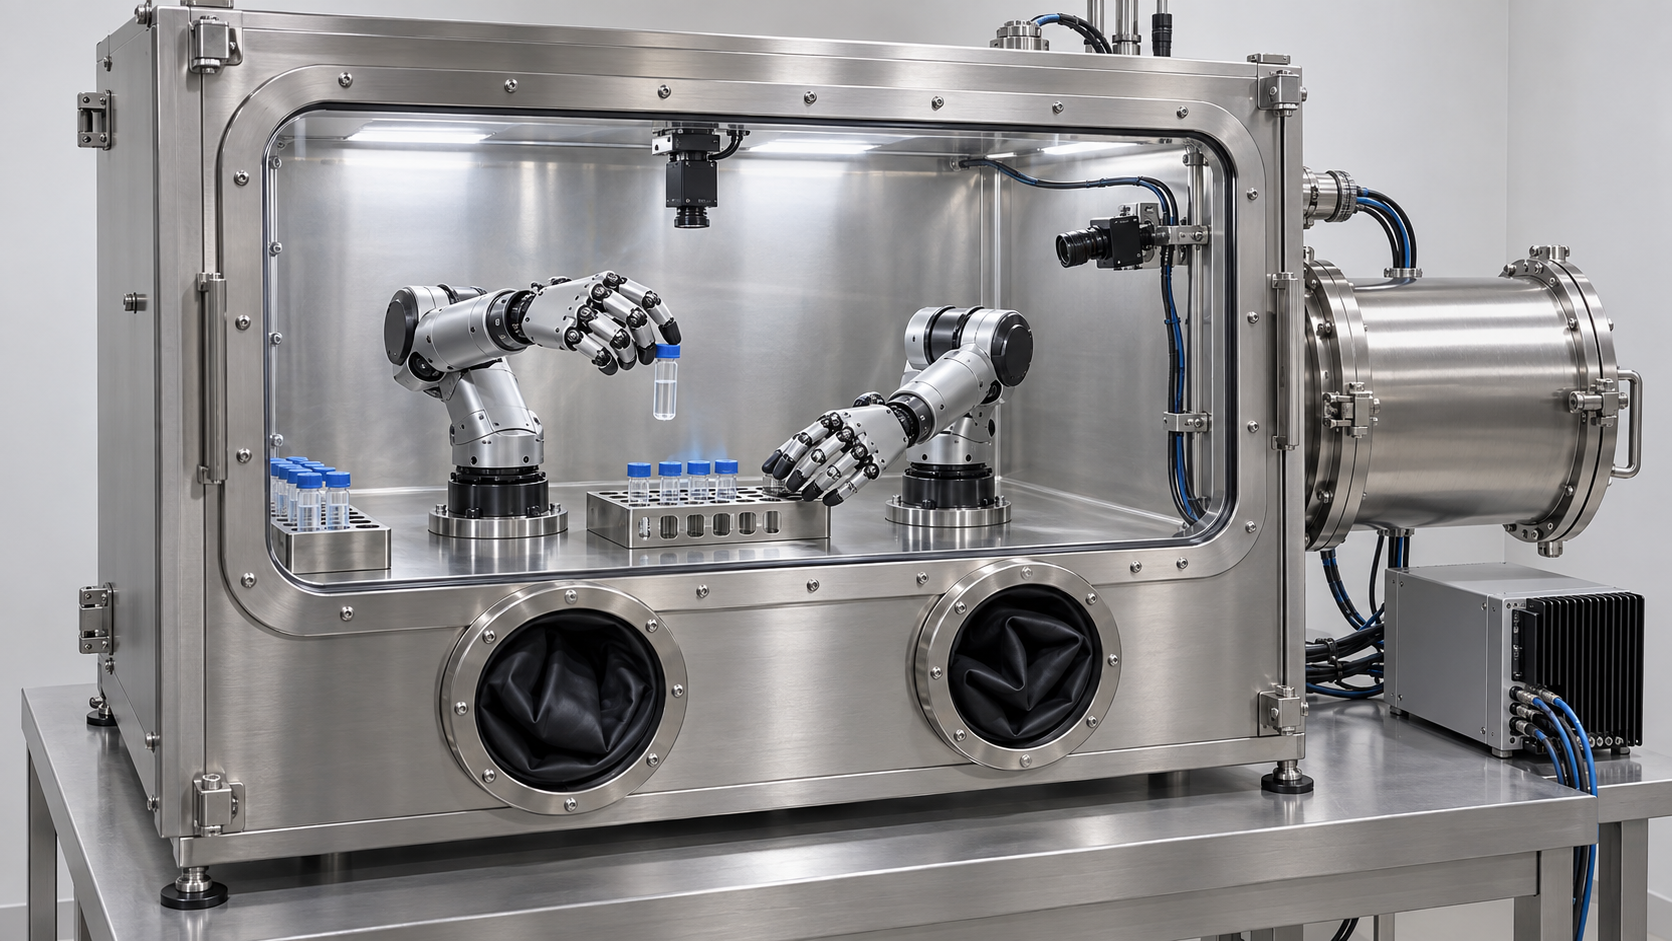
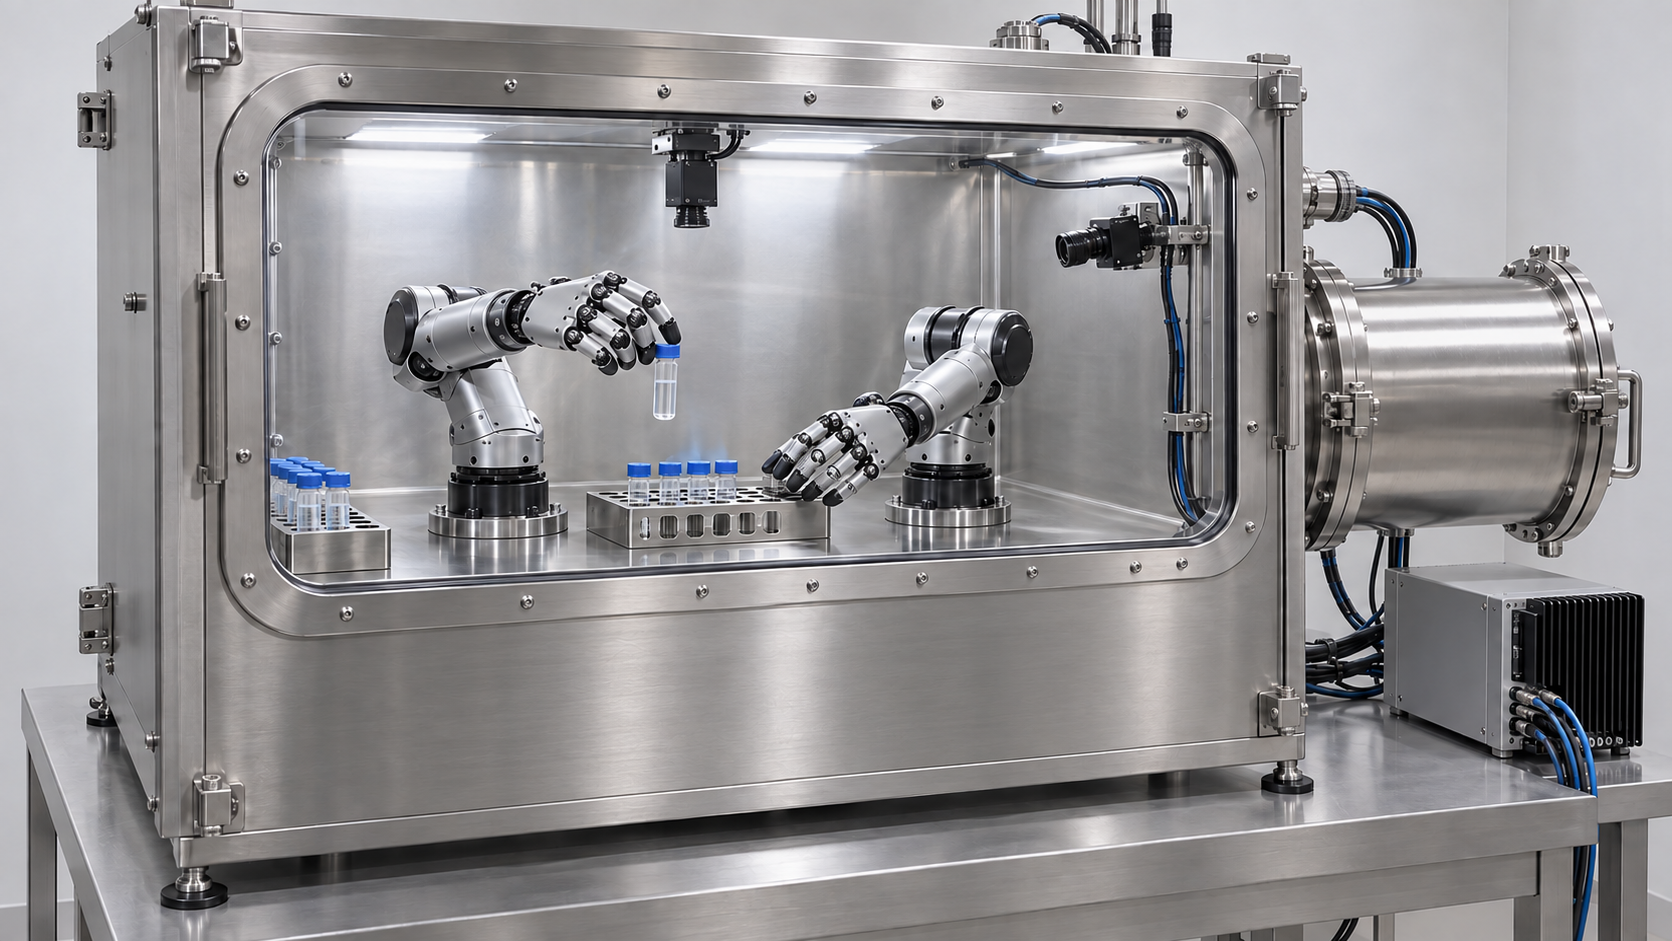
[verified] Fix PhenoLab renderings and production directory routes

diff --git a/src/ApplicationEvidence.tsx b/src/ApplicationEvidence.tsx
@@ -45,7 +45,7 @@ export function CaptureWorkbench({lang}:Props){
 export function PhenolabEvidence({lang}:Props){
  const t=text(lang);
  return <div className="application-evidence"><div className="evidence-heading"><span className="eyebrow">{t('The next capture layer','下一层采集能力')}</span><h4>{t('Learn from the hands doing the science.','从科研操作中学习。')}</h4><p>{t('A proposed path from human demonstration to reviewed data and dexterous robotic work.','从人工操作示范，到审核后的数据，再到灵巧机械手科研作业的拟议路径。')}</p></div>
- <div className="hardware-pair"><figure><img src={image('phenolab-glovebox-capture.png')} loading="lazy" alt={t('Glovebox with three wired cameras and an edge computer for recording human demonstrations','配有三台有线相机与边缘计算设备的手套箱')}/><figcaption><strong>01 / {t('Record the demonstration','记录操作示范')}</strong>{t('Wired camera views and a local capture computer.','多视角有线相机与本地采集计算机。')}</figcaption></figure><figure><img src={image('phenolab-robotic-hands.png')} loading="lazy" alt={t('Two dexterous robotic hands positioned around a sample inside an instrumented glovebox','配备相机的手套箱内，灵巧机械手与样品的位置')}/><figcaption><strong>02 / {t('Train for scientific manipulation','面向科研操作开展训练')}</strong>{t('Dexterous hands in a controlled workspace.','受控工作空间中的灵巧机械手。')}</figcaption></figure></div>
+ <div className="hardware-pair"><figure><img src={image('phenolab-glovebox-capture.png?v=geometry-3')} loading="lazy" alt={t('Glovebox with three wired cameras and an edge computer for recording human demonstrations','配有三台有线相机与边缘计算设备的手套箱')}/><figcaption><strong>01 / {t('Record the demonstration','记录操作示范')}</strong>{t('Wired camera views and a local capture computer.','多视角有线相机与本地采集计算机。')}</figcaption></figure><figure><img src={image('phenolab-robotic-hands.png?v=geometry-2')} loading="lazy" alt={t('Two dexterous robotic hands handling a sample inside a camera-equipped sealed robotic enclosure','配备相机的密闭机器人实验舱内，两只灵巧机械手正在操作样品')}/><figcaption><strong>02 / {t('Train for scientific manipulation','面向科研操作开展训练')}</strong>{t('Dexterous hands in a controlled workspace.','受控工作空间中的灵巧机械手。')}</figcaption></figure></div>
  <CaptureWorkbench lang={lang}/>
  <div className="evidence-chain">{[[t('Capture','采集'),t('Synchronized views of a demonstration','操作示范的同步多视角画面')],[t('Review','审核'),t('Link hands, objects and scientific context','关联手部、物体与科研上下文')],[t('Train & validate','训练与验证'),t('Add robot action data and supervised trials','补充机器人动作数据与受监督试验')]].map(([title,body],i)=><div key={title}><span>0{i+1}</span><h5>{title}</h5><p>{body}</p></div>)}</div>
  </div>;

diff --git a/design/glovebox-geometry-polish.md b/design/glovebox-geometry-polish.md
@@ -1,0 +1,38 @@
+# PhenoLab glovebox geometry polish
+
+## Scope
+
+Owner-requested correction to the two renderings in `PhenolabEvidence`, not a change to the camera-frame annotation image, scientific copy, neural animation or HTE workflow. These remain conceptual visuals, not installation photography or validated engineering drawings. The public captions are preserved; robot alternative text now describes a sealed robotic enclosure in English and Chinese.
+
+## Human demonstration rendering — full replacement
+
+- Owner rejected the intermediate geometry-2 image despite its earlier visual review: the opaque fascia interrupted the window and the combined inside/outside arm paths appeared too long. That review does not establish acceptance.
+- Generate an entirely new scene rather than editing the rejected composition. Stand the operator directly against the glovebox, with ordinary bent elbows and a short reach immediately behind the front pane.
+- Use one uninterrupted rectangular transparent front panel with both access collars in its lower region. No stepped window, tall opaque patch or split facade.
+- Make the near sleeve enter its collar naturally and continue to a proportionate black-gloved hand inside. The farther arm/collar is partly occluded by the operator, so exact continuity and equal physical diameter cannot be certified from this view.
+- Retain the camera-capture story, wiring, external computer, transfer airlock and sample handling; whole-scene framing and equipment layout are new.
+
+## Robotic enclosure rendering
+
+- Remove both human glove ports completely, including black rubber gloves, metallic circular rings and their local fasteners.
+- Reconstruct a continuous brushed-stainless fascia without circular plugs, ghost outlines or conspicuous patch seams.
+- Preserve the two internal robot arms/hands, sample rack, cameras, wiring, transfer airlock and external computer close to the source composition.
+- This supersedes the original robot prompt in `visual-prompts-v4.md` that explicitly asked for stowed human glove ports.
+
+## Reproducibility and integration
+
+- Native Codex generation; model identifier was not exposed. Current human: two fresh text-to-image candidates, selecting the second for its sleeve-to-port continuity and compact reach. Robot: the previously approved single edited candidate, unchanged.
+- Both final assets retain 1672×941 dimensions, and are byte-identical copies of the inspected generation outputs.
+- Original images and rejected intermediate edits are retained in `szkl-glovebox-polish`; the new human scene, brief and generation metadata are in the local `szkl-operator-rerender` review archive.
+- `design/asset-provenance.json` records final SHA-256 hashes.
+- Human URL uses `?v=geometry-3`; approved robot remains `?v=geometry-2` to prevent stale image reuse after deployment.
+
+## Verification
+
+- Inspected the whole newly rendered human scene for compact arm reach and continuous front glazing. This does not claim dimensional, sealing or engineering validation.
+- The intermediate human review is superseded by the owner's rejection. The approved robot image is retained byte-for-byte.
+- Browser regression first failed against the old image hash, then passed after replacement.
+- Eight page states: English/Chinese × 1440, 1024, 390 and 320px. Checked exact asset hashes, complete aspect ratio, localized alternative text, captions, language switching, horizontal overflow and JavaScript errors.
+- Existing 16-state capture annotation regression passed; the source frame and CSS box geometry were not changed.
+- `npm run build` and `git diff --check` passed.
+- Publication is separately gated on GitHub review/CI, actual-nginx candidate preflight and live verification; local build/image tests alone do not prove deployment.

diff --git a/deploy/README.md b/deploy/README.md
@@ -28,9 +28,9 @@ Before publishing, exercise English and Chinese on desktop/mobile, neural animat
 1. Read the active nginx configuration and compare it to the reviewed baseline before making changes.
 2. Back up the current marketing webroot and nginx config outside the public root. Preserve the old `/var/www/szkl-website` directory.
 3. Upload the clean artifact to a new directory `/var/www/szkl-releases/<commit>`. Verify every uploaded file against a SHA-256 manifest before activation.
-4. Point `/var/www/szkl-releases/current` to that immutable release. On the initial migration this does not affect the old live root.
-5. Install the reviewed site config, run `nginx -t`, and reload only after validation passes. If validation or reload fails, restore the saved config immediately.
-6. Verify the public HTML and assets against the uploaded hashes, HTTPS redirects, profile deep links, security headers, video range requests and real browser functionality. Keep old hashed assets available for clients holding the prior HTML.
+4. **Before activation**, test the candidate with a separate loopback-only nginx instance using the immutable candidate directory directly, not `current`. `/people/michael/`, `/people/ethan/`, `/people/louis/` and `/demos/rallo/` must return the intended directory index contents; nonexistent routes/assets must remain 404. Confirm directory listings are disabled (`autoindex off`). The general location needs `try_files $uri $uri/ =404`, not just `$uri`; a generic local file server does not reproduce nginx directory lookup.
+5. Save the previous symlink target, then atomically point `/var/www/szkl-releases/current` to the verified release. Install the reviewed site config, run `nginx -t`, and reload only after validation passes. If validation or reload fails, restore the saved config and previous symlink immediately.
+6. Verify the public HTML and assets against the uploaded hashes, HTTPS redirects, security headers, video range requests and real browser functionality. Keep old hashed assets available for clients holding prior HTML.
 7. If public verification fails, restore the backed-up nginx config (which points at the preserved old root), validate and reload. For later releases, atomically restore the previous `current` symlink target.
 
 Never delete backups or old releases as part of promotion. No SSH private key or hosting token belongs in GitHub or the public artifact.
